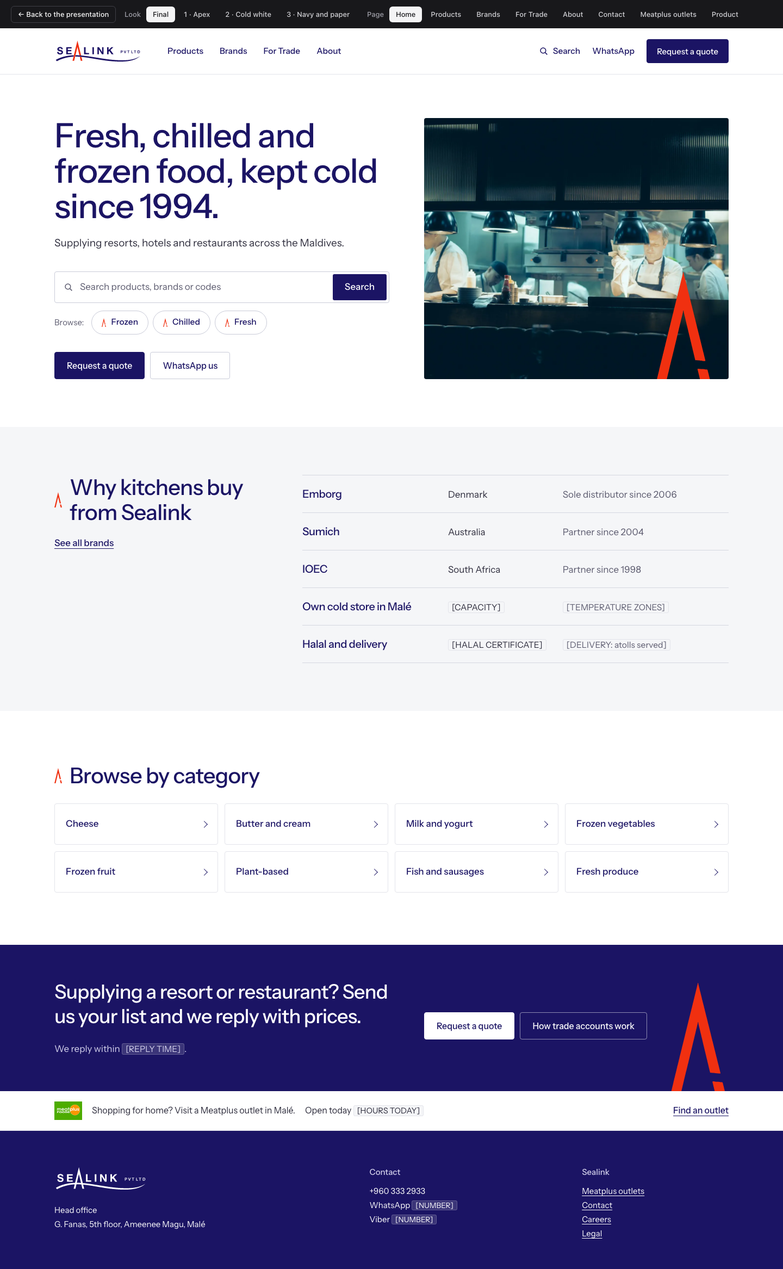
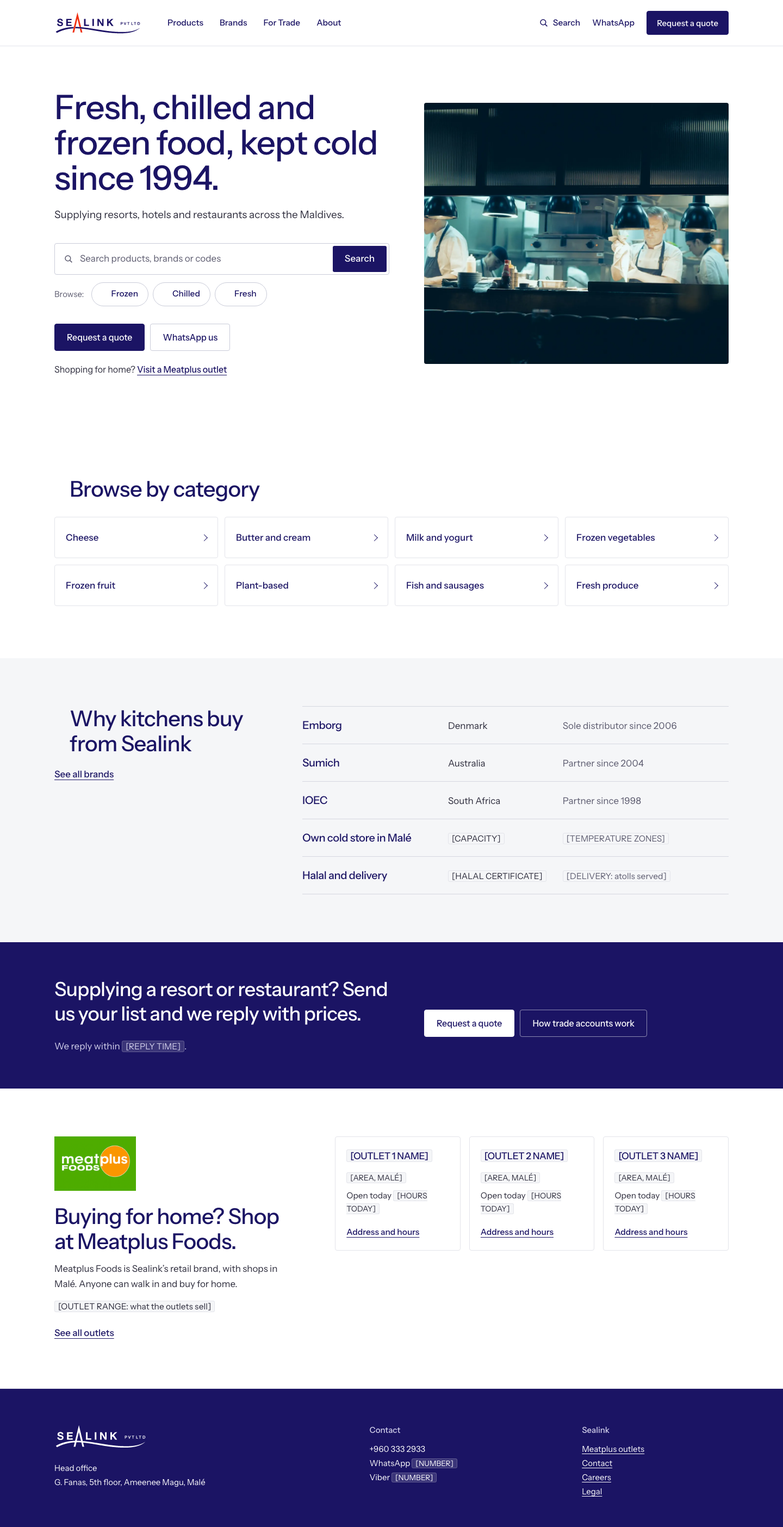
Give Meatplus a real place on Home and Products, reorder the home page
Home (Navy and Paper and Final): categories come before "Why", the trade
band follows, and a full Meatplus section closes the page (logo, who
Meatplus is, three outlet cards, link to the outlets page). The hero gets
one line for home shoppers. Products: the page head says who we sell to
and how, and a slim Meatplus row links to the outlets page.
Home and Products links now go to the trade, contact, brands and outlets
pages. Adds the options board and refreshed Final screenshots.

diff --git a/design/home-ia-meatplus/board.html b/design/home-ia-meatplus/board.html
@@ -1,0 +1,228 @@
+<!DOCTYPE html>
+<html lang="en">
+<head>
+<meta charset="utf-8"><meta name="viewport" content="width=device-width,initial-scale=1">
+<title>Sealink: home order and Meatplus, options</title>
+<link rel="stylesheet" href="https://fonts.googleapis.com/css2?family=Instrument+Sans:wght@400;500;600&display=swap">
+<style>
+:root{--n:#1B1464;--line:#E3E4EA;--band:#F5F6F8;--soft:#5B5A6E;--hl:#C2410C}
+*{box-sizing:border-box}
+body{margin:0;font:15px/1.45 'Instrument Sans',system-ui,sans-serif;color:#2B2A3A;background:#FAFAFB}
+.wrap{max-width:1500px;margin:0 auto;padding:32px 28px 80px}
+h1{font-size:30px;color:var(--n);margin:0 0 6px;font-weight:600;letter-spacing:-.02em}
+h2{font-size:24px;color:var(--n);margin:56px 0 6px;font-weight:600;letter-spacing:-.01em}
+h3{font-size:16px;color:var(--n);margin:0 0 10px;font-weight:600}
+p.lead{max-width:80ch;margin:0;color:var(--soft)}
+.cols{display:grid;grid-template-columns:repeat(3,minmax(0,1fr));gap:22px;margin-top:22px;align-items:start}
+.col{background:#fff;border:1px solid var(--line);border-radius:8px;padding:16px}
+.col.rec{border:2px solid var(--n)}
+.tag{display:inline-block;font-size:12px;font-weight:600;padding:2px 8px;border-radius:10px;background:var(--band);color:var(--soft);margin-left:6px;vertical-align:2px}
+.col.rec .tag{background:var(--n);color:#fff}
+.pair{display:grid;grid-template-columns:1fr 112px;gap:14px;align-items:start}
+.lbl{font-size:12px;color:var(--soft);margin:0 0 6px}
+/* screenshots with markers */
+.shot{position:relative;border:1px solid var(--line);border-radius:4px;overflow:hidden;background:#fff}
+.shot img{display:block;width:100%}
+.m{position:absolute;width:24px;height:24px;margin:-12px 0 0 -12px;border-radius:50%;background:var(--hl);color:#fff;font:600 13px/24px system-ui;text-align:center;box-shadow:0 0 0 3px #fff}
+.shot .ring{position:absolute;left:1%;right:1%;border:2px solid var(--hl);border-radius:3px}
+/* wireframes */
+.wf{display:flex;flex-direction:column;gap:4px;border:1px solid var(--line);border-radius:4px;padding:4px;background:#fff}
+.b{position:relative;border:1px dashed #C9CBD8;border-radius:3px;background:var(--band);font-size:12px;line-height:1.3;color:var(--soft);padding:6px 8px;display:flex;flex-direction:column;justify-content:center}
+.b b{color:var(--n);font-weight:600;font-size:12.5px}
+.b.navy{background:var(--n);border-style:solid;border-color:var(--n);color:#D4D2EC}.b.navy b{color:#fff}
+.b.white{background:#fff}
+.b.new{border:2px solid var(--hl);background:#FFF6F2}
+.b.navy.new{background:var(--n);border-color:var(--hl)}
+.b .n{position:absolute;top:-9px;right:-9px;width:20px;height:20px;border-radius:50%;background:var(--hl);color:#fff;font:600 11px/20px system-ui;text-align:center;box-shadow:0 0 0 2px #fff}
+.b .mp{height:22px;width:auto;align-self:flex-start;object-fit:contain;margin:0 0 4px;border-radius:2px}
+.row{display:flex;gap:4px}.row>.b{flex:1}
+.mini{display:flex;gap:4px;margin-top:5px}.mini i{flex:1;height:22px;border:1px solid #D5D7E0;border-radius:2px;background:#fff}
+.wf.ph .b{font-size:11px;padding:4px 5px}.wf.ph .b b{font-size:11.5px}.wf.ph .b .mp{height:16px}
+.note{margin-top:12px;font-size:13.5px}
+.note li{margin:3px 0}
+ol.probs{margin:14px 0 0;padding:0;list-style:none;display:grid;grid-template-columns:1fr 1fr;gap:6px 28px;max-width:1100px}
+ol.probs li{display:flex;gap:10px;align-items:flex-start}
+ol.probs .k{flex:none;width:22px;height:22px;border-radius:50%;background:var(--hl);color:#fff;font:600 12px/22px system-ui;text-align:center}
+.look{margin-top:18px;background:#fff;border:1px solid var(--line);border-radius:6px;padding:14px 18px;max-width:1100px}
+.look ul{margin:6px 0 0;padding-left:18px}
+.ask{margin-top:40px;background:var(--n);color:#fff;border-radius:8px;padding:20px 24px;max-width:1100px}
+.ask b{color:#fff}
+@media (max-width:1100px){.cols{grid-template-columns:1fr}ol.probs{grid-template-columns:1fr}}
+</style>
+</head>
+<body><div class="wrap">
+
+<h1>Home page order and a real place for Meatplus</h1>
+<p class="lead">Look: Navy and Paper. Current pages captured at 1440 px and 375 px. Options are low-fidelity wireframes. They show order and weight only, not final styling. Orange marks a problem, or a block that changed.</p>
+
+<!-- ================= HOME ================= -->
+<h2>1. Home page</h2>
+<ol class="probs">
+  <li><span class="k">1</span><span>Meatplus is one thin strip at the very bottom, under the trade band. Small logo, one line. It reads like a footnote, not a well-known shop.</span></li>
+  <li><span class="k">2</span><span>In the first screen, a home shopper sees nothing that tells them they can buy from Meatplus. The only path is at the bottom or in the footer.</span></li>
+  <li><span class="k">3</span><span>"Why kitchens buy from Sealink" comes before categories. On a phone it is about 930 px of rows. A buyer who wants to browse must scroll past it.</span></li>
+  <li><span class="k">4</span><span>The main trade action (send your list, get prices) comes late: about 2,200 px down on a phone. Trade and Meatplus are mixed together at the end.</span></li>
+</ol>
+
+<div class="cols">
+  <!-- current -->
+  <div class="col">
+    <h3>Current</h3>
+    <div class="pair">
+      <div><p class="lbl">1440</p><div class="shot"><img src="img/cur-home-1440.jpg" alt="Current home page at 1440 px">
+        <span class="ring" style="top:85.6%;height:3.4%"></span><span class="m" style="left:94%;top:87.3%">1</span>
+        <span class="m" style="left:52%;top:13%">2</span>
+        <span class="ring" style="top:32.2%;height:22.8%"></span><span class="m" style="left:94%;top:34%">3</span>
+        <span class="m" style="left:94%;top:76%">4</span></div></div>
+      <div><p class="lbl">375</p><div class="shot"><img src="img/cur-home-375.jpg" alt="Current home page at 375 px">
+        <span class="ring" style="top:79.3%;height:4.6%"></span><span class="m" style="left:88%;top:81.5%">1</span>
+        <span class="m" style="left:88%;top:9%">2</span>
+        <span class="ring" style="top:25.2%;height:27.7%"></span><span class="m" style="left:88%;top:27%">3</span>
+        <span class="m" style="left:88%;top:67%">4</span></div></div>
+    </div>
+    <ul class="note"><li>Hero → Why → Categories → Trade band → Meatplus strip → Footer</li></ul>
+  </div>
+
+  <!-- option A -->
+  <div class="col rec">
+    <h3>Option A: Trade first, Meatplus closes the page <span class="tag">I would pick this</span></h3>
+    <div class="pair">
+      <div><p class="lbl">1440</p><div class="wf">
+        <div class="b white" style="height:26px"><b>Header</b></div>
+        <div class="b new" style="height:150px"><span class="n">2</span><b>Hero</b>Headline, search, Frozen / Chilled / Fresh, Request a quote, WhatsApp.<br><br>New small line under the buttons: <b>Shopping for home? Visit a Meatplus outlet →</b></div>
+        <div class="b new" style="height:74px"><span class="n">3</span><b>Browse by category</b> (moved up)<div class="mini"><i></i><i></i><i></i><i></i></div></div>
+        <div class="b" style="height:92px"><b>Why kitchens buy from Sealink</b>Partners, cold store, halal and delivery. Same rows.</div>
+        <div class="b navy new" style="height:62px"><span class="n">4</span><b>Trade band</b>Send your list, we reply with prices. Ends the trade story.</div>
+        <div class="b new" style="height:150px;background:#fff"><span class="n">1</span><img class="mp" src="img/mp.png" alt="Meatplus Foods logo"><b>Meatplus section</b>Who Meatplus is: Sealink's own shops for home. Same cold chain.<div class="mini"><i></i><i></i><i></i></div>3 outlet cards: name, area, open today. <b>See all outlets →</b></div>
+        <div class="b navy" style="height:40px"><b>Footer</b></div>
+      </div></div>
+      <div><p class="lbl">375</p><div class="wf ph">
+        <div class="b white" style="height:18px"><b>Header</b></div>
+        <div class="b new" style="height:150px"><span class="n">2</span><b>Hero</b>+ Meatplus line under the buttons</div>
+        <div class="b new" style="height:90px"><span class="n">3</span><b>Categories</b>2 columns</div>
+        <div class="b" style="height:120px"><b>Why</b>Shorter rows</div>
+        <div class="b navy new" style="height:70px"><span class="n">4</span><b>Trade band</b></div>
+        <div class="b new" style="height:150px;background:#fff"><span class="n">1</span><img class="mp" src="img/mp.png" alt=""><b>Meatplus</b>Outlet cards stack. See all outlets.</div>
+        <div class="b navy" style="height:50px"><b>Footer</b></div>
+      </div></div>
+    </div>
+    <ul class="note"><li>Hero → Categories → Why → Trade band → <b>Meatplus section</b> → Footer</li></ul>
+  </div>
+
+  <!-- option B -->
+  <div class="col">
+    <h3>Option B: Two doors under the hero <span class="tag">Option B</span></h3>
+    <div class="pair">
+      <div><p class="lbl">1440</p><div class="wf">
+        <div class="b white" style="height:26px"><b>Header</b></div>
+        <div class="b" style="height:120px"><b>Hero</b>No change.</div>
+        <div class="row new-row">
+          <div class="b new" style="height:78px"><span class="n">2</span><b>For resorts, hotels, restaurants</b>Order by the case. Request a quote →</div>
+          <div class="b new" style="height:78px;background:#fff"><img class="mp" src="img/mp.png" alt="Meatplus Foods logo"><b>For home</b>Shop at Meatplus. Find an outlet →</div>
+        </div>
+        <div class="b new" style="height:74px"><span class="n">3</span><b>Browse by category</b><div class="mini"><i></i><i></i><i></i><i></i></div></div>
+        <div class="b navy new" style="height:62px"><span class="n">4</span><b>Trade band</b> (moved up)</div>
+        <div class="b" style="height:92px"><b>Why kitchens buy from Sealink</b></div>
+        <div class="b new" style="height:120px;background:#fff"><span class="n">1</span><img class="mp" src="img/mp.png" alt=""><b>Meatplus section</b>Who Meatplus is, 3 outlet cards, See all outlets →</div>
+        <div class="b navy" style="height:40px"><b>Footer</b></div>
+      </div></div>
+      <div><p class="lbl">375</p><div class="wf ph">
+        <div class="b white" style="height:18px"><b>Header</b></div>
+        <div class="b" style="height:130px"><b>Hero</b></div>
+        <div class="b new" style="height:56px"><span class="n">2</span><b>For business</b>Request a quote</div>
+        <div class="b new" style="height:56px;background:#fff"><b>For home</b>Meatplus outlets</div>
+        <div class="b new" style="height:90px"><span class="n">3</span><b>Categories</b></div>
+        <div class="b navy new" style="height:60px"><span class="n">4</span><b>Trade band</b></div>
+        <div class="b" style="height:100px"><b>Why</b></div>
+        <div class="b new" style="height:120px;background:#fff"><span class="n">1</span><img class="mp" src="img/mp.png" alt=""><b>Meatplus</b></div>
+        <div class="b navy" style="height:50px"><b>Footer</b></div>
+      </div></div>
+    </div>
+    <ul class="note"><li>Hero → <b>Two doors</b> → Categories → Trade band → Why → <b>Meatplus section</b> → Footer</li></ul>
+  </div>
+</div>
+
+<div class="look"><b>Look at</b><ul>
+  <li><b>1</b>: In both options, Meatplus gets a full section with its logo, a short "who we are", and outlet cards. It links to the Outlets page.</li>
+  <li><b>2</b>: A puts one quiet line in the hero. B puts two equal cards right under the hero. B gives Meatplus more weight early, but it splits the first screen between two audiences.</li>
+  <li><b>3</b>: Categories move above "Why" in both. Buyers can browse sooner.</li>
+  <li><b>4</b>: A keeps the trade band as the last trade block, then hands over to Meatplus. B moves it higher, so the trade action comes sooner on a phone.</li>
+  <li>Why I pick A: trade buyers stay the main audience. Home shoppers still find Meatplus in the first screen and at the end.</li>
+</ul></div>
+
+<!-- ================= PRODUCTS ================= -->
+<h2>2. Products page: introduce Meatplus</h2>
+<ol class="probs">
+  <li><span class="k">5</span><span>The page starts with "Products" and a search box. It does not say who Sealink sells to, or how (by the case, on a quote).</span></li>
+  <li><span class="k">6</span><span>A home shopper sees case packs and "Add to quote". There is no next step for them, and Meatplus is not mentioned.</span></li>
+</ol>
+
+<div class="cols">
+  <div class="col">
+    <h3>Current</h3>
+    <div class="pair">
+      <div><p class="lbl">1440, top of page</p><div class="shot"><img src="img/cur-products-1440.jpg" alt="Current products page at 1440 px, top">
+        <span class="ring" style="top:8%;height:13%"></span><span class="m" style="left:30%;top:10%">5</span>
+        <span class="m" style="left:37%;top:68.6%">6</span></div></div>
+      <div><p class="lbl">375, top</p><div class="shot"><img src="img/cur-products-375.jpg" alt="Current products page at 375 px, top">
+        <span class="ring" style="top:4.5%;height:15%"></span><span class="m" style="left:86%;top:6%">5</span>
+        <span class="m" style="left:27%;top:53%">6</span></div></div>
+    </div>
+  </div>
+
+  <div class="col rec">
+    <h3>Option A: One line in the page head <span class="tag">I would pick this</span></h3>
+    <div class="pair">
+      <div><p class="lbl">1440</p><div class="wf">
+        <div class="b white" style="height:26px"><b>Header</b></div>
+        <div class="b new" style="height:96px"><span class="n">5</span><b>Products</b> + search<br>New line: We sell to businesses by the case. Add products to a quote list and we reply with prices.</div>
+        <div class="b new" style="height:46px;background:#fff;flex-direction:row;align-items:center;gap:8px"><span class="n">6</span><img class="mp" src="img/mp.png" alt="Meatplus Foods logo" style="margin:0"><span>Buying for home? Many of these are on the shelf at Meatplus outlets. <b>Find an outlet →</b></span></div>
+        <div class="b white" style="height:30px">Frozen / Chilled / Fresh</div>
+        <div class="row"><div class="b" style="height:120px;flex:.35">Filters</div><div class="b white" style="height:120px">Product grid<div class="mini"><i style="height:60px"></i><i style="height:60px"></i><i style="height:60px"></i></div></div></div>
+      </div></div>
+      <div><p class="lbl">375</p><div class="wf ph">
+        <div class="b white" style="height:18px"><b>Header</b></div>
+        <div class="b new" style="height:100px"><span class="n">5</span><b>Products</b>+ one line + search</div>
+        <div class="b new" style="height:56px;background:#fff"><span class="n">6</span><img class="mp" src="img/mp.png" alt=""><b>For home?</b> Meatplus outlets →</div>
+        <div class="b white" style="height:24px">Tabs</div>
+        <div class="b white" style="height:120px">Grid</div>
+      </div></div>
+    </div>
+    <ul class="note"><li>Adds about 60 px on desktop, about 90 px on a phone. Products stay near the top.</li></ul>
+  </div>
+
+  <div class="col">
+    <h3>Option B: Two-way intro block <span class="tag">Option B</span></h3>
+    <div class="pair">
+      <div><p class="lbl">1440</p><div class="wf">
+        <div class="b white" style="height:26px"><b>Header</b></div>
+        <div class="b" style="height:70px"><b>Products</b> + search</div>
+        <div class="row">
+          <div class="b new" style="height:112px"><span class="n">5</span><b>Buying for a business</b>Case packs, quote list, reply with prices. How trade accounts work →</div>
+          <div class="b new" style="height:112px;background:#fff"><span class="n">6</span><img class="mp" src="img/mp.png" alt="Meatplus Foods logo"><b>Buying for home</b>Meatplus is our own shop. Many of these products are on its shelves. Find an outlet →</div>
+        </div>
+        <div class="b white" style="height:30px">Frozen / Chilled / Fresh</div>
+        <div class="row"><div class="b" style="height:80px;flex:.35">Filters</div><div class="b white" style="height:80px">Product grid</div></div>
+      </div></div>
+      <div><p class="lbl">375</p><div class="wf ph">
+        <div class="b white" style="height:18px"><b>Header</b></div>
+        <div class="b" style="height:76px"><b>Products</b>+ search</div>
+        <div class="b new" style="height:80px"><span class="n">5</span><b>For a business</b></div>
+        <div class="b new" style="height:80px;background:#fff"><span class="n">6</span><img class="mp" src="img/mp.png" alt=""><b>For home</b></div>
+        <div class="b white" style="height:24px">Tabs</div>
+        <div class="b white" style="height:60px">Grid</div>
+      </div></div>
+    </div>
+    <ul class="note"><li>Clearer split, but adds about 140 px on desktop and about 300 px on a phone before the first product.</li></ul>
+  </div>
+</div>
+
+<div class="look"><b>Look at</b><ul>
+  <li><b>5</b>: Both options say who we sell to and how, in plain words, at the top.</li>
+  <li><b>6</b>: Both give home shoppers a next step: Meatplus outlets. A uses one slim row. B uses a full card.</li>
+  <li>Why I pick A: buyers come here to find products. A keeps the grid high, most of all on a phone.</li>
+</ul></div>
+
+<div class="ask"><b>Please pick:</b> Home A or B, and Products A or B. Notes are welcome (for example "A, but move the trade band up").</div>
+
+</div></body></html>

diff --git a/concepts/index.html b/concepts/index.html
@@ -439,6 +439,26 @@ body.bare #bar{display:none}
 [data-v="paper"] .outlet{border-bottom:1px solid var(--line)}
 [data-v="paper"] .outlet .w{gap:18px;min-height:72px;padding-block:12px;font-size:16px}
 [data-v="paper"] .outlet .lnk{margin-left:auto}
+/* home: Meatplus line in the hero, Meatplus section; products: intro line and Meatplus row */
+[data-v="paper"] section.why.after{margin-top:96px}
+[data-v="paper"] .why.after+.trade{margin-top:0}
+[data-v="paper"] .hero .mpline{margin-top:22px;font-size:16px;color:var(--ink2)}
+[data-v="paper"] .mps{padding-block:88px;border-bottom:1px solid var(--line)}
+[data-v="paper"] .mps>.w{display:grid;grid-template-columns:1fr 1.6fr;gap:64px;align-items:start}
+[data-v="paper"] .mps .mplogo{width:150px;height:auto;margin-bottom:24px}
+[data-v="paper"] .mps h2{font-size:clamp(28px,2.8vw,40px);line-height:1.15}
+[data-v="paper"] .mps .txt p{margin-top:14px;color:var(--ink2);max-width:46ch}
+[data-v="paper"] .mps .txt .lnk{display:inline-block;margin-top:22px}
+[data-v="paper"] .mps .ol{display:grid;grid-template-columns:repeat(3,1fr);gap:16px}
+[data-v="paper"] .mps .o{display:flex;flex-direction:column;gap:8px;border:1px solid var(--line);border-radius:4px;padding:20px;text-decoration:none;color:var(--ink2);font-size:15.5px}
+[data-v="paper"] .mps .o h3{font-size:19px;margin-bottom:4px}
+[data-v="paper"] .mps .o .go{margin-top:auto;padding-top:10px;font-weight:500;color:var(--n);text-decoration:underline;text-underline-offset:4px}
+[data-v="paper"] .mps .o:hover{background:var(--band)}
+[data-v="paper"] .ptop .pintro{margin-top:16px;font-size:17px;color:var(--ink2);max-width:44ch}
+[data-v="paper"] .mprow{border-bottom:1px solid var(--line)}
+[data-v="paper"] .mprow .w{display:flex;align-items:center;gap:16px;padding-block:12px;font-size:16px}
+[data-v="paper"] .mprow img{width:66px;height:auto;flex:none}
+[data-v="paper"] .mprow .lnk{margin-left:auto;white-space:nowrap}
 [data-v="paper"] .ft{background:var(--n);color:#fff;padding:64px 0 52px}
 [data-v="paper"] .ft .cols{grid-template-columns:2fr 1.3fr 1fr;gap:40px}
 [data-v="paper"] .ft img{width:170px}
@@ -509,6 +529,11 @@ body.bare #bar{display:none}
   [data-v="paper"] .cats{grid-template-columns:1fr 1fr;gap:8px}[data-v="paper"] .cat{height:64px;font-size:16px;padding:0 14px}
   [data-v="paper"] .trade{margin-top:64px}[data-v="paper"] .trade .acts{grid-column:1;grid-row:auto;justify-content:flex-start}
   [data-v="paper"] .outlet .lnk{margin-left:0}
+  [data-v="paper"] section.why.after{margin-top:64px}
+  [data-v="paper"] .mps{padding-block:56px}[data-v="paper"] .mps>.w{grid-template-columns:1fr;gap:28px}[data-v="paper"] .mps .mplogo{width:120px;margin-bottom:18px}
+  [data-v="paper"] .mps .ol{grid-template-columns:1fr;gap:10px}
+  [data-v="paper"] .ptop .pintro{font-size:16px;margin-top:12px}
+  [data-v="paper"] .mprow .w{display:grid;grid-template-columns:54px 1fr;gap:4px 14px;align-items:start;padding-block:14px;font-size:15px}[data-v="paper"] .mprow img{width:54px;grid-row:1/3}[data-v="paper"] .mprow .lnk{margin-left:0;justify-self:start}
   [data-v="paper"] .ft .cols{grid-template-columns:1fr;gap:28px}
   [data-v="paper"] .stabs .w{overflow-x:auto}
   [data-v="paper"] .pbody{grid-template-columns:1fr;gap:16px;padding-top:20px}
@@ -826,6 +851,14 @@ const shortcuts=V=>V==='cold'
   : `<div class="short">${V==='paper'?'<span class="lb">Browse:</span>':''}${['Frozen','Chilled','Fresh'].map(s=>stg(s,0,V)).join('')}</div>`;
 const sh=(t,tag='h2')=>`<div class="sh">${A('mk')}<${tag}>${t}</${tag}></div>`;
 const outlet=V=>`<div class="outlet"><div class="w"><img src="${MP}" alt="Meatplus Foods"><span>Shopping for home? Visit a Meatplus outlet in Malé.</span><span>Open today ${x('[HOURS TODAY]')}</span><a class="lnk" ${L('outlets')}>Find an outlet</a></div></div>`;
+const meatplus=V=>`<section class="mps" aria-labelledby="mps-h"><div class="w">
+  <div class="txt"><img class="mplogo" src="${MP}" alt="Meatplus Foods">
+    <h2 id="mps-h">Buying for home? Shop at Meatplus Foods.</h2>
+    <p>Meatplus Foods is Sealink’s retail brand, with shops in Malé. Anyone can walk in and buy for home.</p>
+    <p>${x('[OUTLET RANGE: what the outlets sell]')}</p>
+    <a class="lnk" ${L('outlets')}>See all outlets</a></div>
+  <div class="ol">${[1,2,3].map(n=>`<a class="o" ${L('outlets')}><h3>${x(`[OUTLET ${n} NAME]`)}</h3><span>${x('[AREA, MALÉ]')}</span><span>Open today ${x('[HOURS TODAY]')}</span><span class="go">Address and hours</span></a>`).join('')}</div>
+</div></section>`;
 const footer=V=>`<footer class="ft"><div class="w"><div class="cols">
   <div><img src="${LOGO_W}" alt="Sealink Pvt Ltd"><p style="margin-top:22px">Head office<br>G. Fanas, 5th floor, Ameenee Magu, Malé</p></div>
   <div><h4>Contact</h4><p>+960 333 2933<br>WhatsApp ${x('[NUMBER]')}<br>Viber ${x('[NUMBER]')}</p></div>
@@ -840,28 +873,30 @@ function home(V){
    + `<div class="row"><h3>Halal and delivery</h3><span class="c">${x('[HALAL CERTIFICATE]')}</span><span class="r">${x('[DELIVERY: atolls served]')}</span></div>`;
   const whyHead = sh('Why kitchens buy from Sealink');
   const why = V==='paper'
-    ? `<section class="why blk"><div class="w"><div>${whyHead}<a class="lnk more" href="#">See all brands</a></div><div class="rows">${whyRows}</div></div></section>`
-    : `<section class="why blk"><div class="w">${whyHead}<div class="rows">${whyRows}</div><a class="lnk more" href="#">See all brands</a></div></section>`;
+    ? `<section class="why blk"><div class="w"><div>${whyHead}<a class="lnk more" ${L('brands')}>See all brands</a></div><div class="rows">${whyRows}</div></div></section>`
+    : `<section class="why blk"><div class="w">${whyHead}<div class="rows">${whyRows}</div><a class="lnk more" ${L('brands')}>See all brands</a></div></section>`;
   const hero = V==='quiet'
     ? `<section class="hero"><div class="w">
         <h1>Fresh, chilled and frozen food, kept cold since 1994.</h1>
         <p class="who">Supplying resorts, hotels and restaurants across the Maldives.</p>
         <div class="find">${search(V,'Search products, brands or codes')}${shortcuts(V)}</div>
-        <div class="acts"><a class="btn" href="#">Request a quote</a><a class="btn s" href="#">WhatsApp us</a></div>
+        <div class="acts"><a class="btn" ${L('trade')}>Request a quote</a><a class="btn s" ${L('contact')}>WhatsApp us</a></div>
         <figure class="fig">${pic(...HERO[V])}<i class="sweep" aria-hidden="true"><i></i></i></figure>
       </div></section>`
     : `<section class="hero"><div class="w"><div>
         <h1>Fresh, chilled and frozen food, kept cold since 1994.</h1>
         <p class="who">Supplying resorts, hotels and restaurants across the Maldives.</p>
         ${search(V,'Search products, brands or codes')}${shortcuts(V)}
-        <div class="acts"><a class="btn" href="#">Request a quote</a><a class="btn s" href="#">WhatsApp us</a></div>
+        <div class="acts"><a class="btn" ${L('trade')}>Request a quote</a><a class="btn s" ${L('contact')}>WhatsApp us</a></div>
+        ${V==='paper'?`<p class="mpline">Shopping for home? <a class="lnk" ${L('outlets')}>Visit a Meatplus outlet</a></p>`:''}
       </div>${pic(...HERO[V])}</div></section>`;
-  return header(V,'home')+`<main>${hero}${why}
-   <section class="blk"><div class="w">${sh('Browse by category')}<div class="cats">${CATS.map(c=>`<a class="cat" href="#">${c}</a>`).join('')}</div></div></section>
-   <section class="trade">${A('crop')}<div class="w"><h2>Supplying a resort or restaurant? Send us your list and we reply with prices.</h2>
+  const cats = `<section class="blk"><div class="w">${sh('Browse by category')}<div class="cats">${CATS.map(c=>`<a class="cat" ${L('products')}>${c}</a>`).join('')}</div></div></section>`;
+  const tradeBand = `<section class="trade">${A('crop')}<div class="w"><h2>Supplying a resort or restaurant? Send us your list and we reply with prices.</h2>
      <p class="rt">We reply within ${x('[REPLY TIME]')}.</p>
-     <div class="acts"><a class="btn" href="#">Request a quote</a><a class="btn s" href="#">How trade accounts work</a></div></div></section>
-   ${outlet(V)}</main>`+footer(V);
+     <div class="acts"><a class="btn" ${L('trade')}>Request a quote</a><a class="btn s" ${L('trade')}>How trade accounts work</a></div></div></section>`;
+  /* Navy and Paper (and Final): categories before "why", then the trade band, then a full Meatplus section */
+  if(V==='paper') return header(V,'home')+`<main>${hero}${cats}${why.replace('why blk','why blk after')}${tradeBand}${meatplus(V)}</main>`+footer(V);
+  return header(V,'home')+`<main>${hero}${why}${cats}${tradeBand}${outlet(V)}</main>`+footer(V);
 }
 function card(p,V){
   const src = p.img ? IMG+p.img : p.ph && !p.ph.startsWith('X:') ? IMG+p.ph+'.webp' : '';
@@ -879,7 +914,8 @@ function products(V){
     : ['All','Frozen','Chilled','Fresh'].map((s,i)=>stg(s,i===0,V)).join('');
   const chk=(l,c)=>`<label><input type="checkbox"${c?' checked':''}> ${l}</label>`;
   return header(V,'products')+`<main>
-   <section class="ptop">${A('crop')}<div class="w"><h1>Products</h1>${search(V,'Search products, brands or codes')}</div></section>
+   <section class="ptop">${A('crop')}<div class="w"><div><h1>Products</h1>${V==='paper'?'<p class="pintro">We sell to resorts, hotels, restaurants and shops by the case. Add products to a quote list and we reply with prices.</p>':''}</div>${search(V,'Search products, brands or codes')}</div></section>
+   ${V==='paper'?`<div class="mprow"><div class="w"><img src="${MP}" alt="Meatplus Foods"><p>Buying for home? Shop at Meatplus Foods, Sealink’s own outlets in Malé.</p><a class="lnk" ${L('outlets')}>Find an outlet</a></div></div>`:''}
    <div class="stabs"><div class="w" role="tablist" aria-label="Storage">${tabs}</div></div>
    <div class="w pbody">
      <aside class="filters" aria-label="Filters">
@@ -893,7 +929,7 @@ function products(V){
        <div class="nores"><span class="tag">When a search finds nothing</span><p>No match for ‘lamb shank’. Try a category, or ask us on WhatsApp. We may stock it.</p></div>
      </div>
    </div>
-   <div class="qbar"><div class="w"><b>Quote list</b><span class="n">3 items</span><a class="btn" href="#">Send list</a></div></div>
+   <div class="qbar"><div class="w"><b>Quote list</b><span class="n">3 items</span><a class="btn" ${L('trade')}>Send list</a></div></div>
   </main>`+footer(V);
 }
 function brands(V){
